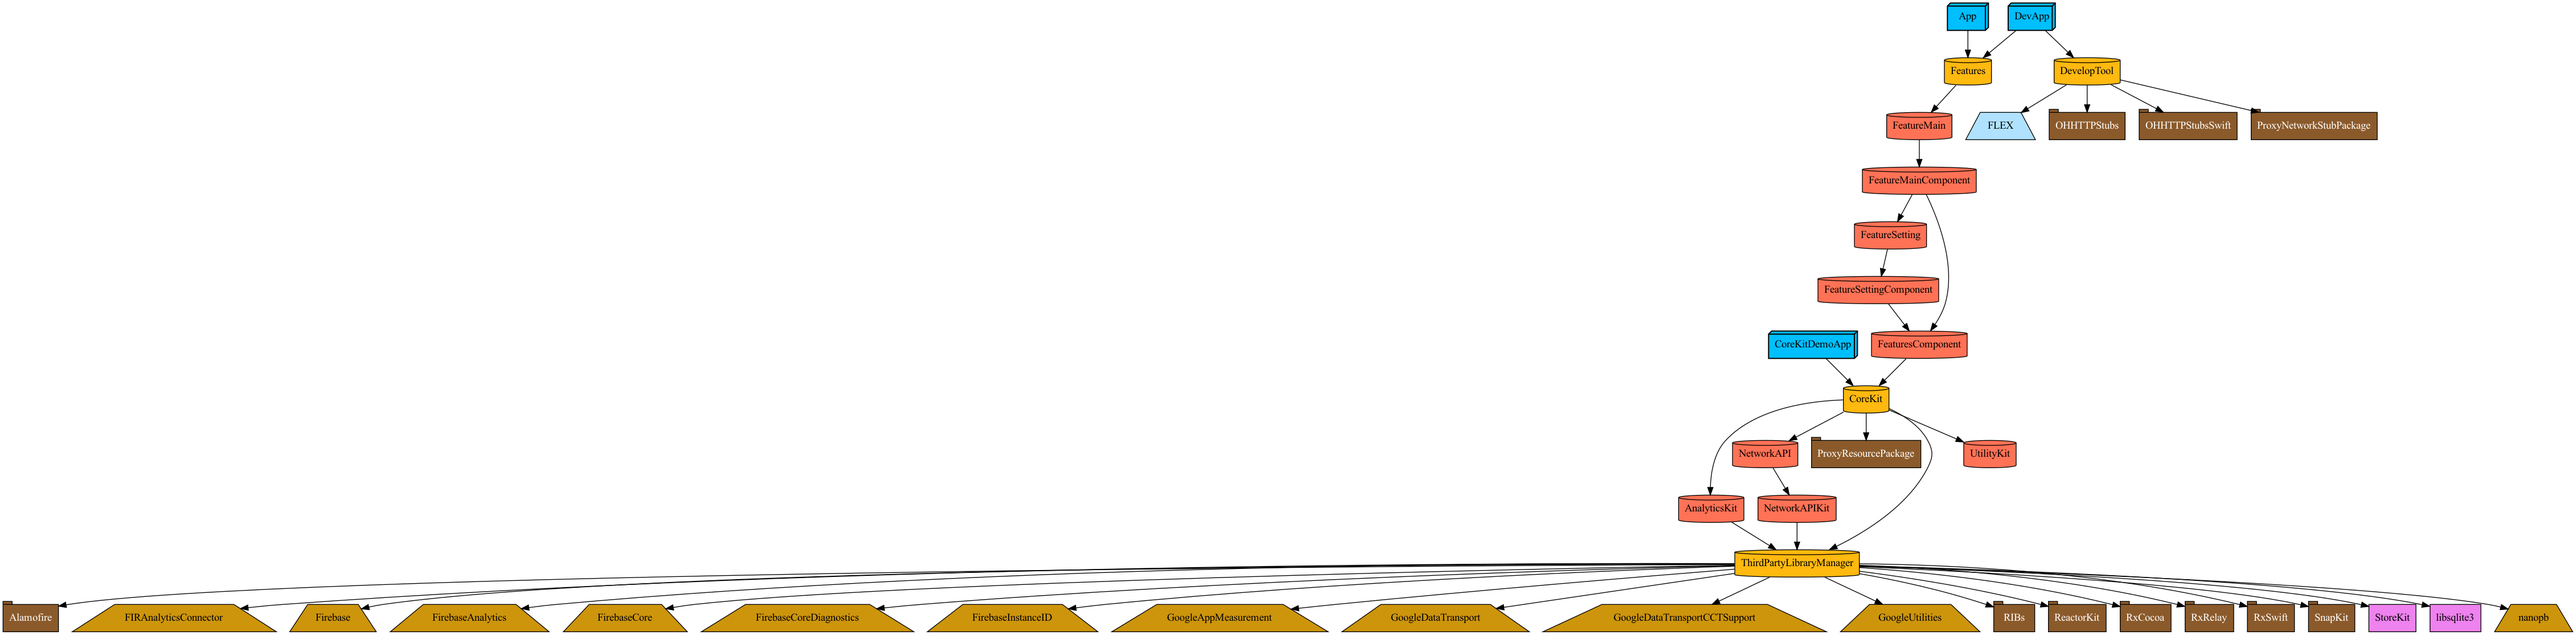
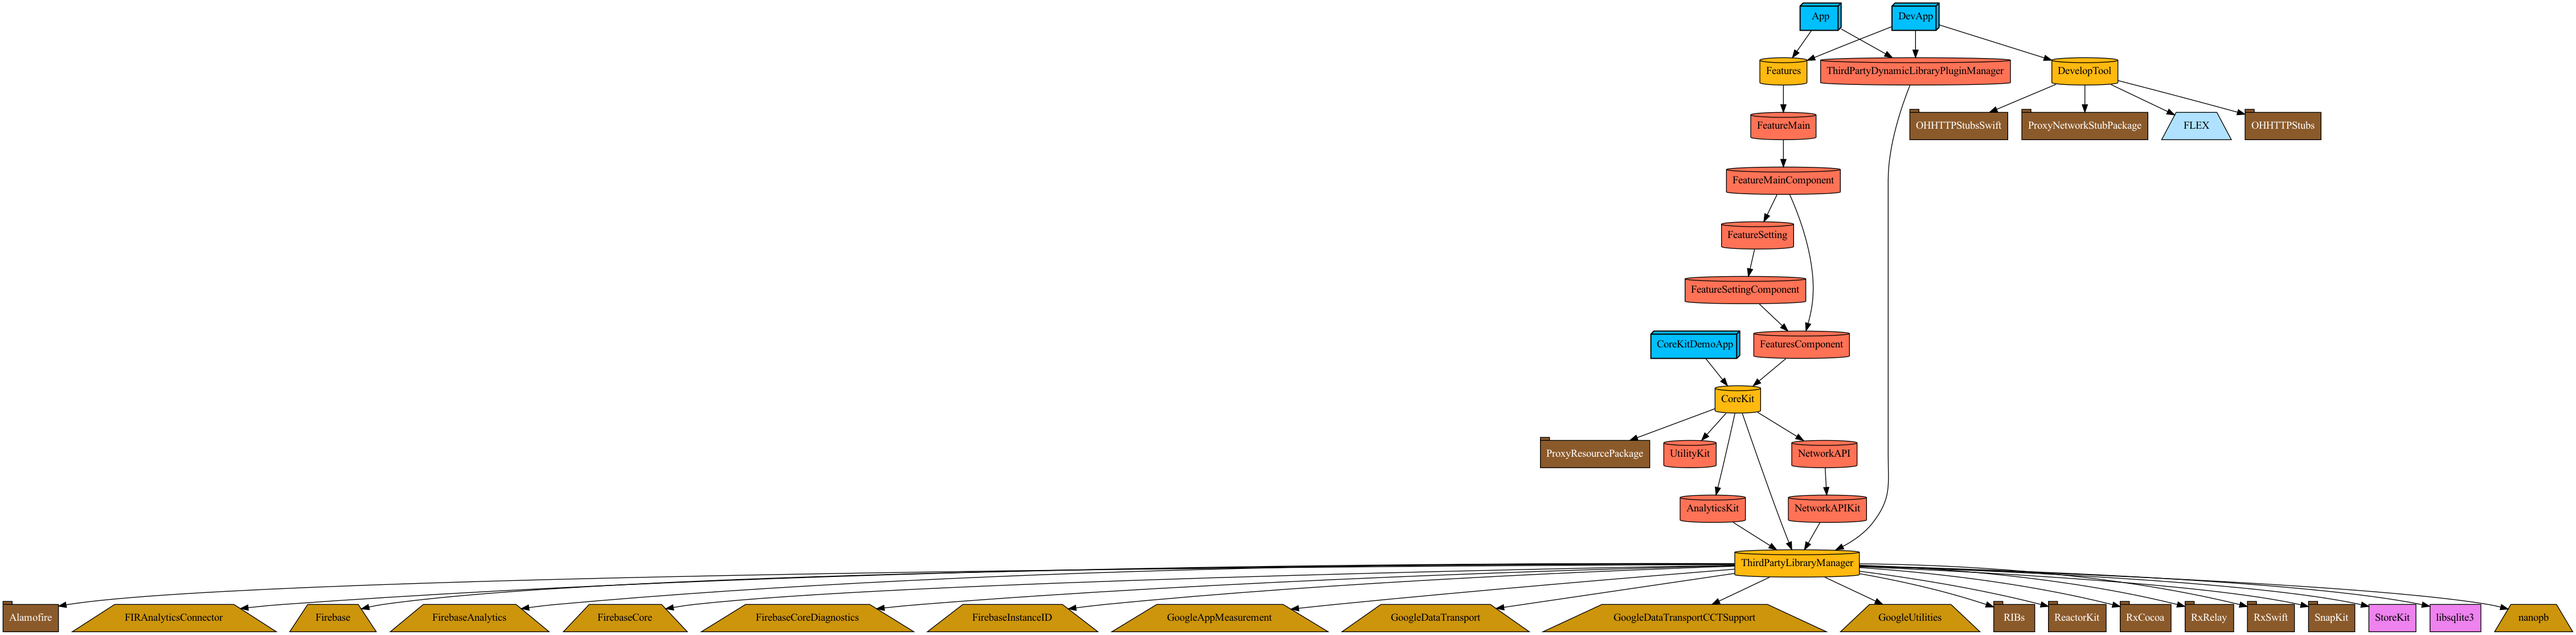
ThirdPartyDynamicLibraryPluginManager 추가

diff --git a/Projects/App/Project.swift b/Projects/App/Project.swift
@@ -39,6 +39,7 @@ let targets: [Target] = [
           actions: actions,
           dependencies: [
             .Feature.Features,
+            .Project.ThirdPartyDynamicLibraryPluginManager,
           ]),
     .init(name: "DevApp",
           platform: .iOS,
@@ -56,6 +57,7 @@ let targets: [Target] = [
           dependencies: [
             .Feature.Features,
             .Project.DevelopTool,
+            .Project.ThirdPartyDynamicLibraryPluginManager,
           ]),
     .init(name: "DevAppTests",
           platform: .iOS,

diff --git a/Plugin/UtilityPlugin/ProjectDescriptionHelpers/Dependency+Project.swift b/Plugin/UtilityPlugin/ProjectDescriptionHelpers/Dependency+Project.swift
@@ -31,6 +31,7 @@ public extension TargetDependency.Project {
     static let DevelopTool              = TargetDependency.module(name: "DevelopTool")
     static let AnalyticsKit             = TargetDependency.module(name: "AnalyticsKit")
     static let ThirdPartyLibraryManager = TargetDependency.module(name: "ThirdPartyLibraryManager")
+    static let ThirdPartyDynamicLibraryPluginManager = TargetDependency.module(name: "ThirdPartyDynamicLibraryPluginManager")
 }
 
 // MARK: Extension

diff --git a/Projects/Modules/ThirdPartyDynamicLibraryPluginManager/Project.swift b/Projects/Modules/ThirdPartyDynamicLibraryPluginManager/Project.swift
@@ -1,0 +1,8 @@
+import ProjectDescription
+import ProjectDescriptionHelpers
+
+let project = Project
+    .staticFramework(name: "ThirdPartyDynamicLibraryPluginManager",
+               		 dependencies: [
+                        .Project.ThirdPartyLibraryManager,
+               		 ])
